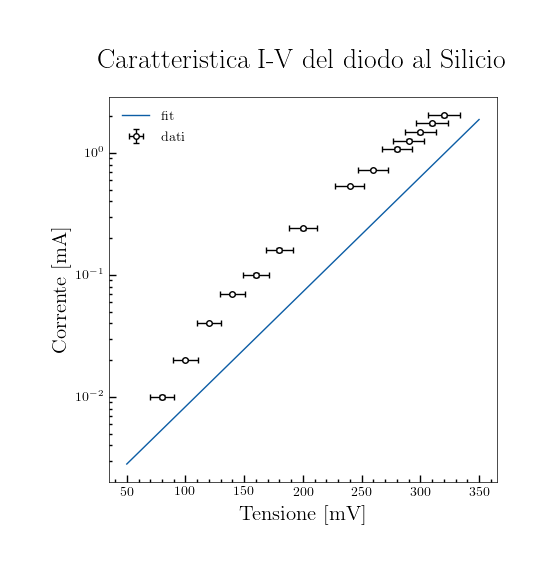
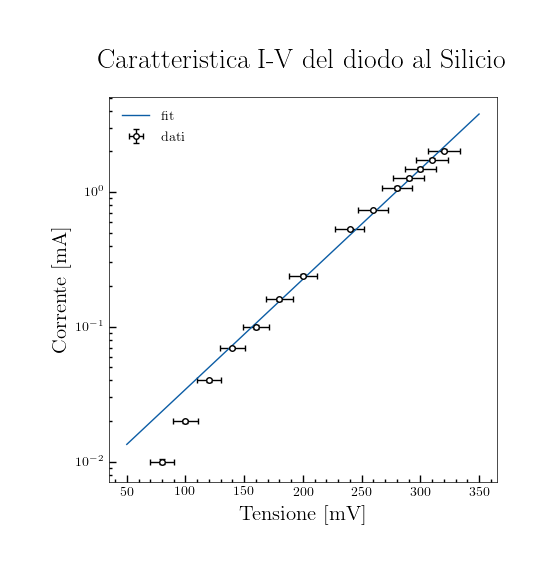
default

diff --git a/seconda_prova/ib100/transistor.py b/seconda_prova/ib100/transistor.py
@@ -2,20 +2,31 @@ import numpy
 import seaborn
 from math import exp,sqrt
 from matplotlib import pyplot
+from linearfit import linearfit as lf
 from dati import V, e_V, I
 
 pyplot.style.use('my_style')
 
-#for i in range(0,33):
- #   e_V_osc[i] = sqrt(e_V_osc[i]**2+(0.03*V_osc[i])**2)
+for i in range(0,33):
+    e_V[i] = sqrt(e_V[i]**2+(0.03*V[i])**2)
 
-#print(e_V_osc)
-
-pyplot.errorbar(V, I, 0, e_V, fmt='ok')
+pyplot.errorbar(V, I, 0, e_V, fmt='ok', label = 'dati')
 pyplot.yscale('linear') 
 pyplot.xlabel('Tensione [V]')
 pyplot.ylabel('Corrente [mA]')
 pyplot.title('Caratteristica in uscita')
-#pyplot.legend()
-pyplot.savefig('transistor.png')
+
+a,b,da,db=lf(V, I ,e_V)
+
+print("a = ",a)
+print("da = ",da)
+print("b = ",b)
+print("db = ",db)
+
+x=numpy.linspace(0,4,100)
+pyplot.plot(x,a+b*x,label = 'fit') 
+
+pyplot.legend()
+pyplot.savefig('grafico_transistor.png')
+
 

diff --git a/seconda_prova/ib200/transistor.py b/seconda_prova/ib200/transistor.py
@@ -2,6 +2,7 @@ import numpy
 import seaborn
 from math import exp,sqrt
 from matplotlib import pyplot
+from linearfit import linearfit as lf
 from dati import V, e_V, I
 
 pyplot.style.use('my_style')
@@ -9,13 +10,23 @@ pyplot.style.use('my_style')
 for i in range(0,24):
     e_V[i] = sqrt(e_V[i]**2+(0.03*V[i])**2)
 
-#print(e_V_osc)
-
-pyplot.errorbar(V, I, 0, e_V, fmt='ok')
+pyplot.errorbar(V, I, 0, e_V, fmt='ok', label = 'dati')
 pyplot.yscale('linear') 
 pyplot.xlabel('Tensione [V]')
 pyplot.ylabel('Corrente [mA]')
 pyplot.title('Caratteristica in uscita')
-#pyplot.legend()
-pyplot.savefig('transistor.png')
+
+a,b,da,db=lf(V, I ,e_V)
+
+print("a = ",a)
+print("da = ",da)
+print("b = ",b)
+print("db = ",db)
+
+x=numpy.linspace(0,4,100)
+pyplot.plot(x,a+b*x,label = 'fit') 
+
+pyplot.legend()
+pyplot.savefig('grafico_transistor.png')
+
 

diff --git a/prima_prova/calibrazione/calibrazione.py b/prima_prova/calibrazione/calibrazione.py
@@ -18,12 +18,12 @@ print("db = ",db)
 
 
 x = numpy.linspace(0.1,0.8,100)
-pyplot.errorbar(V_mul, V_osc, e_V_osc, e_V_mul, fmt='ok')
-pyplot.plot(x,a+b*x)
+pyplot.errorbar(V_mul, V_osc, e_V_osc, e_V_mul, fmt='ok', label='dati')
+pyplot.plot(x,a+b*x, label='fit')
 pyplot.yscale('linear') 
 pyplot.xlabel('Tensione Multimetro [V]')
 pyplot.ylabel('Tensione Oscilloscopio [V]')
 pyplot.title('Calibrazione Oscilloscopio-Multimetro')
-#pyplot.legend()
-pyplot.savefig('calibrazione.png')
+pyplot.legend()
+pyplot.savefig('grafico_calibrazione.png')
 

diff --git a/seconda_prova/ib100/linearfit.py b/seconda_prova/ib100/linearfit.py
@@ -1,0 +1,27 @@
+# MODULE LINEARFIT
+from math import sqrt
+
+def linearfit(x,y,e_y):
+    S1=0
+    Sx=0
+    Sy=0
+    Sxx=0
+    Sxy=0
+   
+    for i in range(0,13):
+                S1+=1/(e_y[i]**2)
+                Sx+=x[i]/(e_y[i]**2)
+                Sy+=y[i]/(e_y[i]**2)
+                Sxx+=(x[i]**2)/(e_y[i]**2)
+                Sxy+=(x[i]*y[i])/(e_y[i]**2)
+
+    D=S1*Sxx-Sx**2
+
+    a=(Sy*Sxx-Sx*Sxy)/D
+    b=(S1*Sxy-Sx*Sy)/D
+    da=sqrt(Sxx/D)
+    db=sqrt(S1/D)
+
+    return a,b,da,db
+    
+

diff --git a/seconda_prova/ib200/linearfit.py b/seconda_prova/ib200/linearfit.py
@@ -1,0 +1,27 @@
+# MODULE LINEARFIT
+from math import sqrt
+
+def linearfit(x,y,e_y):
+    S1=0
+    Sx=0
+    Sy=0
+    Sxx=0
+    Sxy=0
+   
+    for i in range(1,15):
+                S1+=1/(e_y[i]**2)
+                Sx+=x[i]/(e_y[i]**2)
+                Sy+=y[i]/(e_y[i]**2)
+                Sxx+=(x[i]**2)/(e_y[i]**2)
+                Sxy+=(x[i]*y[i])/(e_y[i]**2)
+
+    D=S1*Sxx-Sx**2
+
+    a=(Sy*Sxx-Sx*Sxy)/D
+    b=(S1*Sxy-Sx*Sy)/D
+    da=sqrt(Sxx/D)
+    db=sqrt(S1/D)
+
+    return a,b,da,db
+    
+

diff --git a/prima_prova/silicio/linearfit.py b/prima_prova/silicio/linearfit.py
@@ -1,14 +1,14 @@
 # MODULE LINEARFIT
 from math import sqrt
 
-def linearfit(x,y,e_y):
+def linearfit(x, y, e_y):
     S1=0
     Sx=0
     Sy=0
     Sxx=0
     Sxy=0
    
-    for i in range(0,14):
+    for i in range(4,14):
         S1+=1/(e_y[i]**2)
         Sx+=x[i]/(e_y[i]**2)
         Sy+=y[i]/(e_y[i]**2)

diff --git a/prima_prova/germanio/germanio.py b/prima_prova/germanio/germanio.py
@@ -30,7 +30,7 @@ I0=exp(-a/b)
 print('I0 = ',I0)
 
 x=numpy.linspace(400,710,100)
-pyplot.plot(x,I0*numpy.exp(x/b-1), label = 'fit') 
+pyplot.plot(x,I0*numpy.exp((x-1)/b), label = 'fit') 
 
 # Dato che V = -clnI0+clnI abbiamo che V=cln(I/I0), I/I0 = e^(V/c-1)
 
